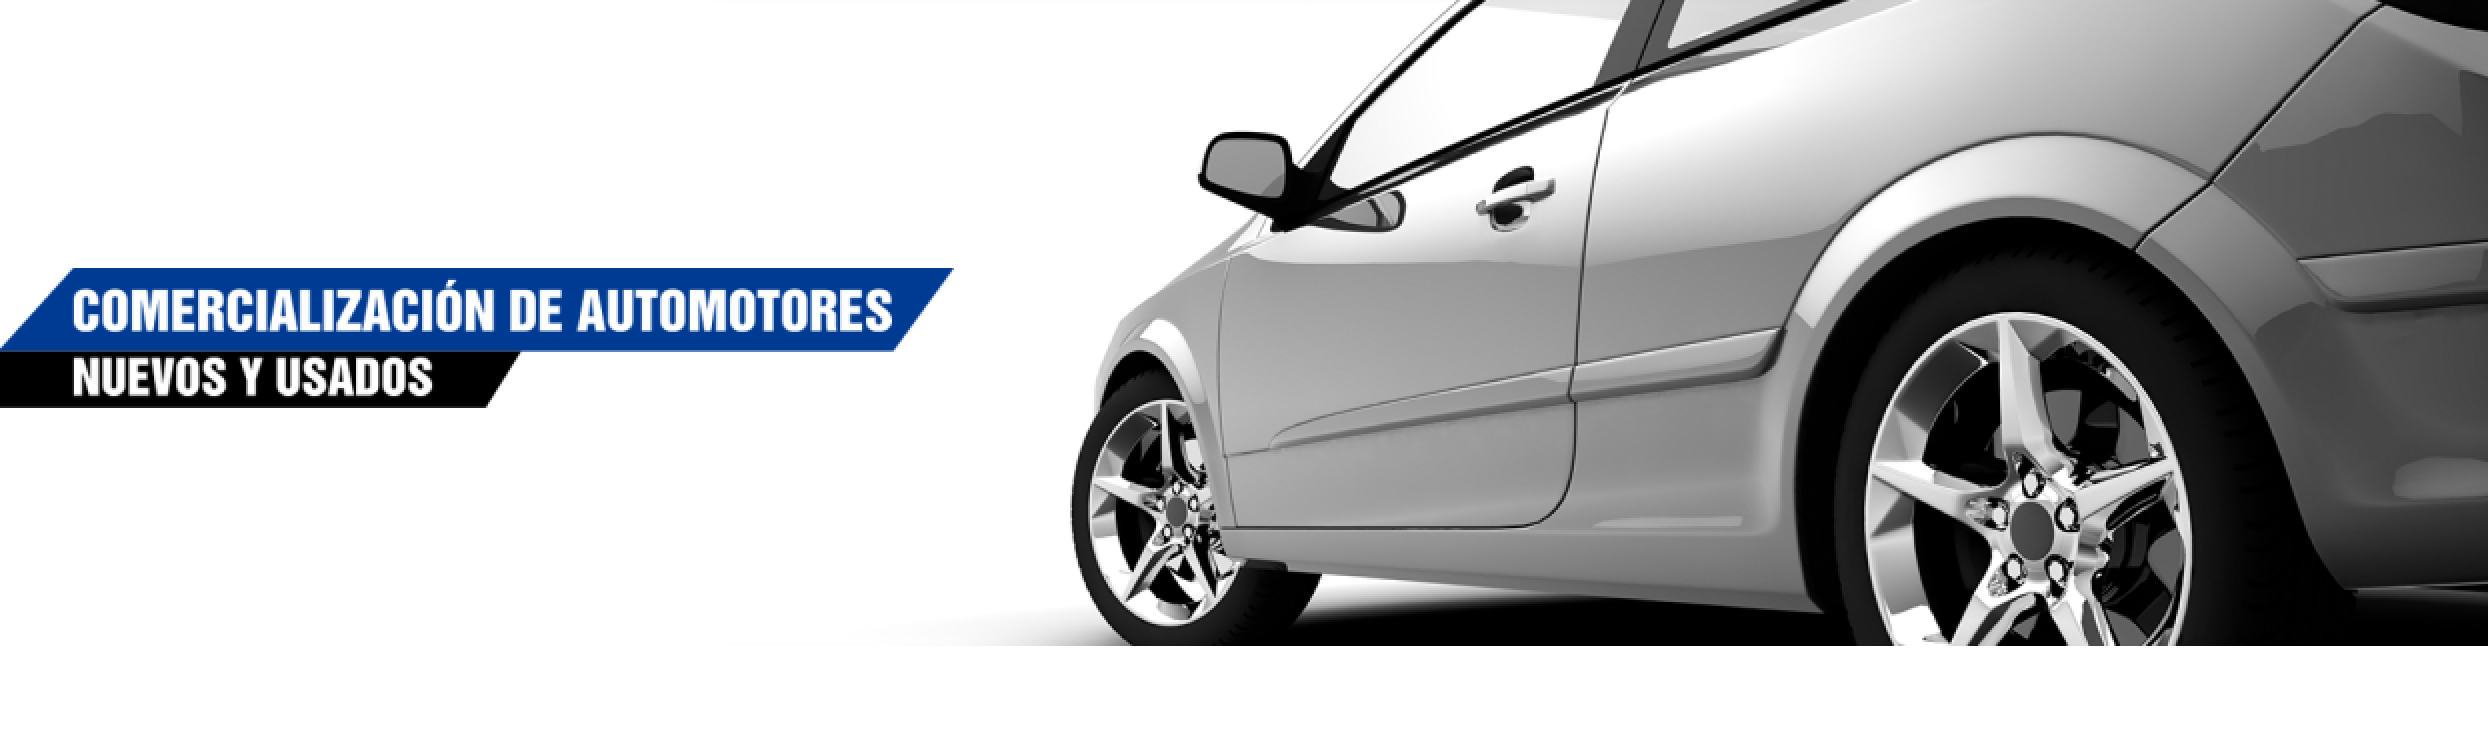
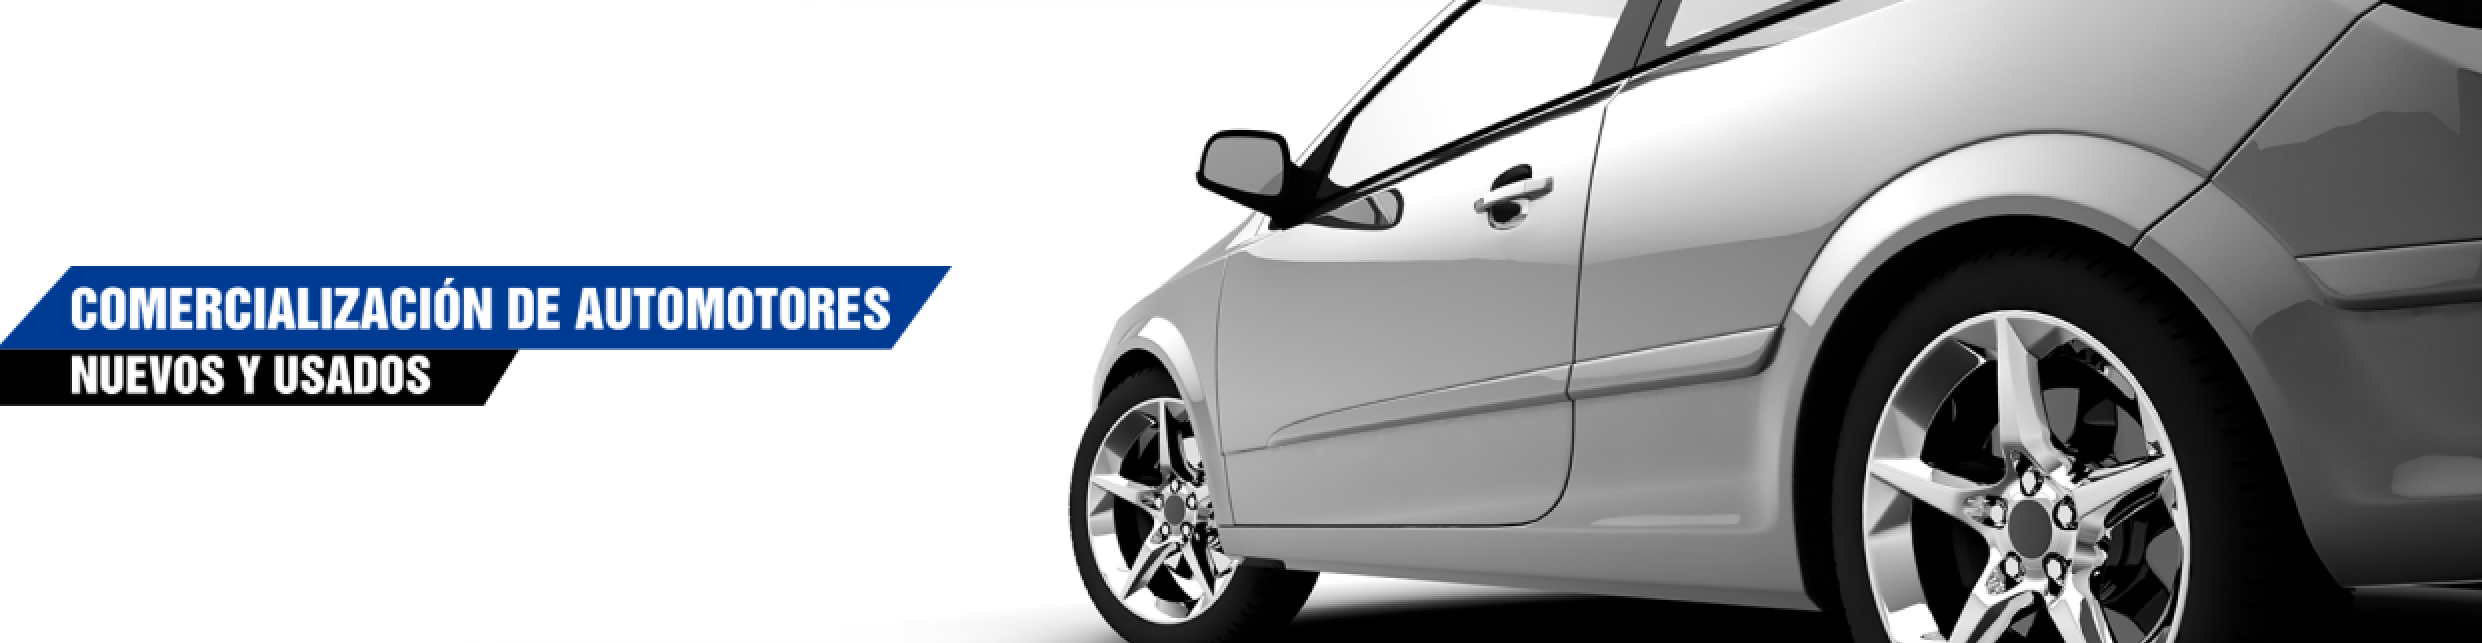
Estilos aplicados

diff --git a/src/app/vehiculos/vehiculos.component.css b/src/app/vehiculos/vehiculos.component.css
@@ -1,14 +1,36 @@
+.navbar {
+  background: transparent !important;
+  border: none;
+}
+hr {
+  box-shadow: 0px 8px 8px 0px rgba(0, 0, 0, 0.45);
+  margin: 0rem;
+  background-color: red;
+}
+.banner {
+  width: 100%;
+  height:323px;
+  padding: 0rem;
+  display: block;
+  padding-bottom: 0rem;
+  border-bottom: 1px solid #00000033;
+  margin-bottom:20px;
+  padding:10px 0px
+}
 .custom-table {
-  width: 60%; /* ancho total de la tabla */
+  width: 60%;
+  margin-left: 0;
+  margin-right: auto;
 }
 
 .custom-table th,
 .custom-table td {
-  text-align: center;
+  text-align: start;
 }
 
 .col-id {
   width: 10%;
+  font-weight: 700;
 }
 
 .col-marca {
@@ -22,3 +44,4 @@
 .col-modelo {
   width: 40%;
 }
+

diff --git a/src/app/vehiculos/vehiculos.component.html b/src/app/vehiculos/vehiculos.component.html
@@ -5,10 +5,13 @@
     </a>
   </div>
 </nav>
+<hr/>
+<div class="body-container">
+<div class="img-container">
+<img class="banner" src="/Banner.png" alt="banner principal" />
+</div>
 
-<img class="banner img-fluid w-100" src="/Banner.png" alt="banner principal" />
-
-<table class="table mx-auto custom-table">
+<table class="table custom-table">
   <thead class="table-dark">
     <tr>
       <th scope="col" class="col-id">#</th>
@@ -25,7 +28,10 @@
       <td>{{ vehiculo.modelo }}</td>
     </tr>
   </tbody>
+
 </table>
+</div>
+
 
 <footer class="text-center mt-4">
   Contact us: +57 3102105253 - info@tusegundazo.com - @tusegundazo

diff --git a/src/styles.css b/src/styles.css
@@ -1,3 +1,10 @@
-body{
-    margin:0rem 5rem;
+@import url('https://fonts.googleapis.com/css2?family=Inter:ital,opsz,wght@0,14..32,100..900;1,14..32,100..900&display=swap');
+* {
+  font-family: 'Inter', sans-serif;
+  font-size: 18px;
+  margin: 0px;
+  padding: 0px;
+}
+body {
+  margin: 0rem 5rem;
 }
